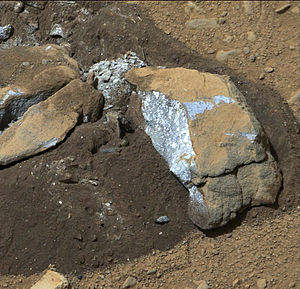
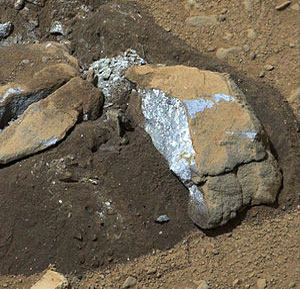
correct picture format

diff --git a/index.html b/index.html
@@ -47,7 +47,7 @@
     
     <div class="bordertop grid sectionlight">
         <div class="unit unit-s-1 unit-m-1-3">
-            <img src="images/300px-734781main_pia16804-full_full.psd" alt="rocks">
+            <img src="images/300px-734781main_pia16804-full_full.jpg" alt="rocks">
             <figcaption class="milli island">This Mars rock revealed its bluish-gray interior to Mars Science Laboratory.</figcaption>
         </div>
         <div class="unit unit-s-1-2 unit-m-1-3">
